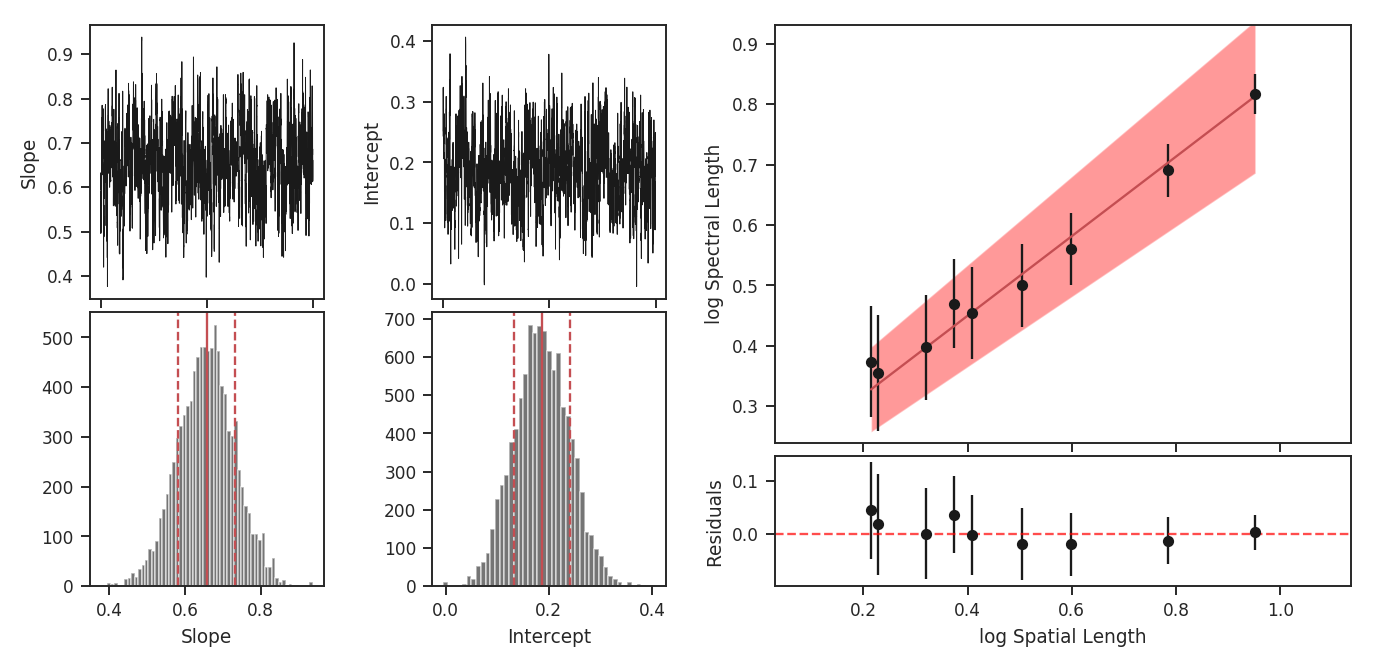
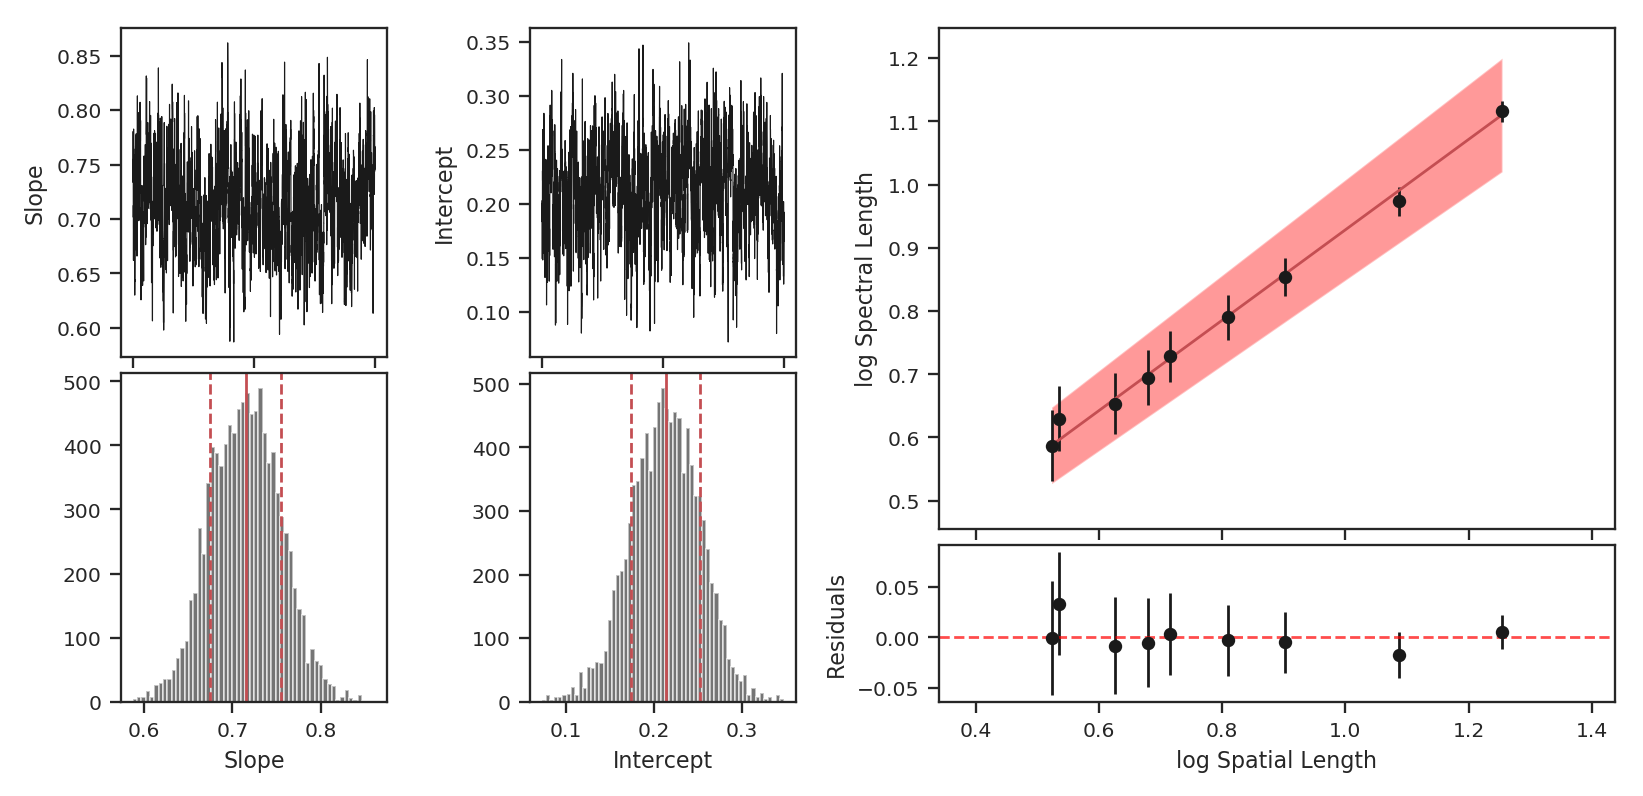
Add PCA width fixes to plotting routines; update values in the PCA tutorial

diff --git a/turbustat/statistics/pca/width_estimate.py b/turbustat/statistics/pca/width_estimate.py
@@ -190,8 +190,8 @@ def WidthEstimate2D(inList, method='contour', noise_ACF=0,
                 ax.contour(z, levels=np.array([np.exp(-1)]) * z.max(),
                            colors='c')
                 full_params = np.array([0, 0,
-                                        ellip.params[2] * 2,
-                                        ellip.params[3] * 2,
+                                        ellip.params[2],
+                                        ellip.params[3],
                                         ellip.params[-1]])
                 pts = ellip.predict_xy(np.linspace(0, 2 * np.pi),
                                        params=full_params)

diff --git a/docs/tutorials/statistics/code_for_tutorials.py b/docs/tutorials/statistics/code_for_tutorials.py
@@ -254,7 +254,7 @@ if run_pca:
 
     pca.find_spectral_widths(method='walk-down')
     autocorr_spec = pca.autocorr_spec()
-    x = np.fft.rfftfreq(500) * 500 / 2.0
+    x = np.fft.rfftfreq(500) * 500
     fig, axes = plt.subplots(3, 3, sharex=True, sharey=True, figsize=(10, 8))
     for i, ax in zip(range(9), axes.ravel()):
         ax.plot(x, autocorr_spec[:251, i])

diff --git a/docs/tutorials/statistics/pca_example.rst b/docs/tutorials/statistics/pca_example.rst
@@ -39,10 +39,10 @@ The simplest way to run the entire process is using the `~turbustat.statistics.P
 
     >>> pca.run(verbose=True, min_eigval=1e-4, spatial_output_unit=u.pc,
     ...         spectral_output_unit=u.m / u.s, brunt_beamcorrect=False)  # doctest: +SKIP
-    Proportion of Variance kept: 0.999693451344
-    Index: 0.64 (0.62, 0.66)
-    Gamma: 0.55 (0.51, 0.59)
-    Sonic length: 1.449e-01 (1.360e-01, 1.538e-01) pc at 10.0 K
+    Proportion of Variance kept: 0.9996934513444623
+    Index: 0.72 (0.70, 0.73)
+    Gamma: 0.90 (0.55, 1.26)
+    Sonic length: 4.419e+00 (3.306e+00, 5.532e+00) pix at 10.0 K
 
 .. image:: images/pca_design4_default.png
 
@@ -56,10 +56,10 @@ Since these data are simulated, this example does not account for a finite beam 
     >>> pca.run(verbose=True, min_eigval=1e-4, spatial_output_unit=u.pc,
     ...         spectral_output_unit=u.m / u.s, brunt_beamcorrect=True,
     ...         beam_fwhm=10 * u.arcsec)  # doctest: +SKIP
-    Proportion of Variance kept: 0.999693451344
-    Index: 0.54 (0.51, 0.57)
-    Gamma: 0.37 (0.33, 0.42)
-    Sonic length: 8.739e-02 (7.589e-02, 9.888e-01) pc at 10.0 K
+    Proportion of Variance kept: 0.9996934513444623
+    Index: 0.71 (0.70, 0.73)
+    Gamma: 0.89 (0.54, 1.25)
+    Sonic length: 4.394e+00 (3.284e+00, 5.505e+00) pix at 10.0 K
 
 .. image:: images/pca_design4_beamcorr.png
 
@@ -70,10 +70,10 @@ Both of the PCA runs above do *not* subtract the mean of the data before creatin
     >>> pca.run(verbose=True, min_eigval=1e-4, spatial_output_unit=u.pc,
     ...         spectral_output_unit=u.m / u.s, brunt_beamcorrect=True,
     ...         beam_fwhm=10 * u.arcsec, mean_sub=True)  # doctest: +SKIP
-    Proportion of Variance kept: 0.999808532503
-    Index: 0.70 (0.67, 0.74)
-    Gamma: 0.63 (0.59, 0.66)
-    Sonic length: 1.004e-01 (9.384e-02, 1.070e-01) pc at 10.0 K
+    Proportion of Variance kept: 0.9998085325029037
+    Index: 0.86 (0.83, 0.89)
+    Gamma: 1.12 (0.72, 1.53)
+    Sonic length: 3.947e+00 (3.107e+00, 4.787e+00) pix at 10.0 K
 
 .. image:: images/pca_design4_beamcorr.png
 
@@ -133,7 +133,7 @@ Third, we find the spectral widths:
 
     >>> pca.find_spectral_widths(method='walk-down')  # doctest: +SKIP
     >>> autocorr_spec = pca.autocorr_spec()  # doctest: +SKIP
-    >>> x = np.fft.rfftfreq(500) * 500 / 2.0  # doctest: +SKIP
+    >>> x = np.fft.rfftfreq(500) * 500  # doctest: +SKIP
     >>> fig, axes = plt.subplots(3, 3, sharex=True, sharey=True)  # doctest: +SKIP
     >>> for i, ax in zip(range(9), axes.ravel()):  # doctest: +SKIP
     >>>     ax.plot(x, autocorr_spec[:251, i])  # doctest: +SKIP
@@ -173,9 +173,9 @@ Additional arguments for setting the chain properties can be passed as well. See
 The interesting outputs from this analysis are estimates of the slopes of the size-line width relation (:math:`\gamma`) and the sonic length:
 
     >>> pca.gamma  # doctest: +SKIP
-    0.433
+    0.897
     >>> pca.sonic_length(T_k=10 * u.K, mu=1.36, unit=u.pc)  # doctest: +SKIP
-    (<Quantity 0.35451525 pc>, <Quantity [0.27522952, 0.45267135] pc>)
+    (<Quantity 0.10021154 pc>, <Quantity [0.09024886, 0.111332  ] pc>)
 
 Sonic length is defined as the length at which the fitted line intersects the sounds speed (temperature can be specified with `T_k` above).  Since the sonic length depends on temperature and :math:`\mu`, this is a function and not a property like :math:`\gamma`. `PCA.sonic_length` also returns the 1-sigma error bounds. The error bounds in :math:`\gamma` can be accessed with `PCA.gamma_error_range`.
 
